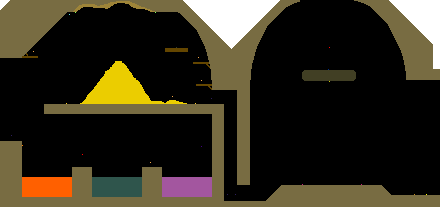
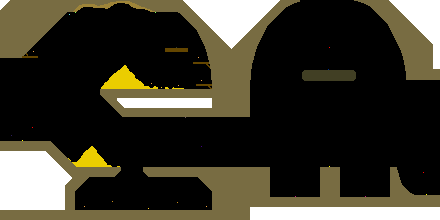
crypt h rework

Changed region(s): [[0.0, 0.2727, 0.9455, 1.0]]

diff --git a/notes.md b/notes.md
@@ -1,19 +1,21 @@
 - watchlist
   - ?? jungle rock awol
   - coalmine: double trigger on regular cauldron (both clearing toxic)
-  - x mystery fungus not detected in hisii h
   - right potions broken in jungle h
-  - x hanging slime - chest solved and chest in bin
   - vault h
     - only one broken potion
     - no potions
     - missing water potion, had red herrings
+    - potions fell
   - vault v
     - pool drained, no potions
     - diamond, water, nothing in pot
     - breaks common
   - hisi h diamond and water
-- crypt h: cauldron ambiguity
+- alt biomes for pixels scenes
+  - pyramid
+  - dark rainforest
+  - open rainforest
 - mod description
 - remote biomes
   - spawn key
